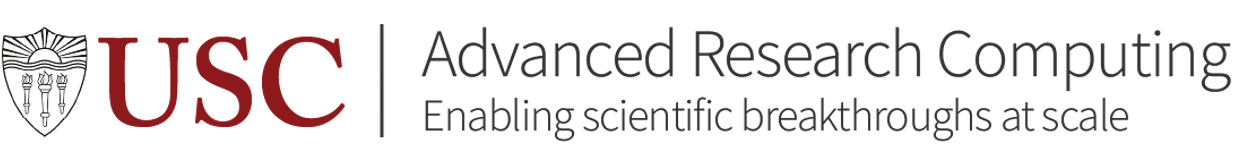
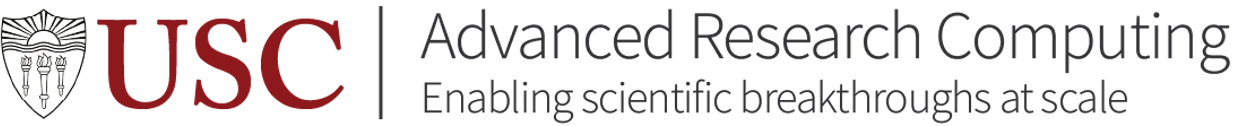
tight png margins

diff --git a/components/front/companies.module.css b/components/front/companies.module.css
@@ -28,7 +28,7 @@
 	margin-left: 50px;
 	margin-right: 50px;
 	margin-bottom: 30px;
-    height: 80px;
+    height: 85px;
 	transition: transform 0.5s ease-out;
 	perspective: 1000px;
 }
@@ -37,7 +37,7 @@
     display: flex;
     margin-left: 20px;
     margin-right: 20px;
-	height: 80px;
+	height: 55px;
 	transition: transform 0.5s ease-out;
 	perspective: 1000px;
 }
@@ -48,7 +48,7 @@
 	margin-right: 20px;
 	margin-top:15px;
 	margin-bottom:15px;
-	height: 65px;
+	height: 45px;
 	transition: transform 0.5s ease-out;
 	perspective: 1000px;
 }
@@ -83,5 +83,11 @@
 @media only screen and (max-width: 400px) {
 	.gold img {
 		height: 50px;
+	}
+	.bronze img {
+		height: 30px;
+	}
+	.inkind img {
+		height: 20px;
 	}
 }
